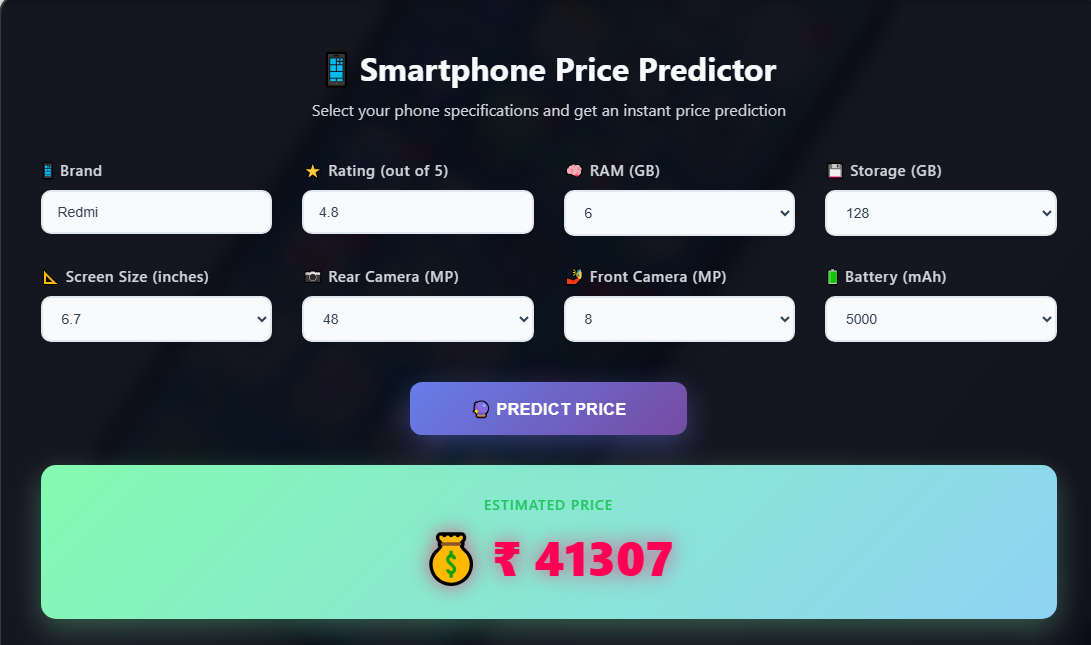
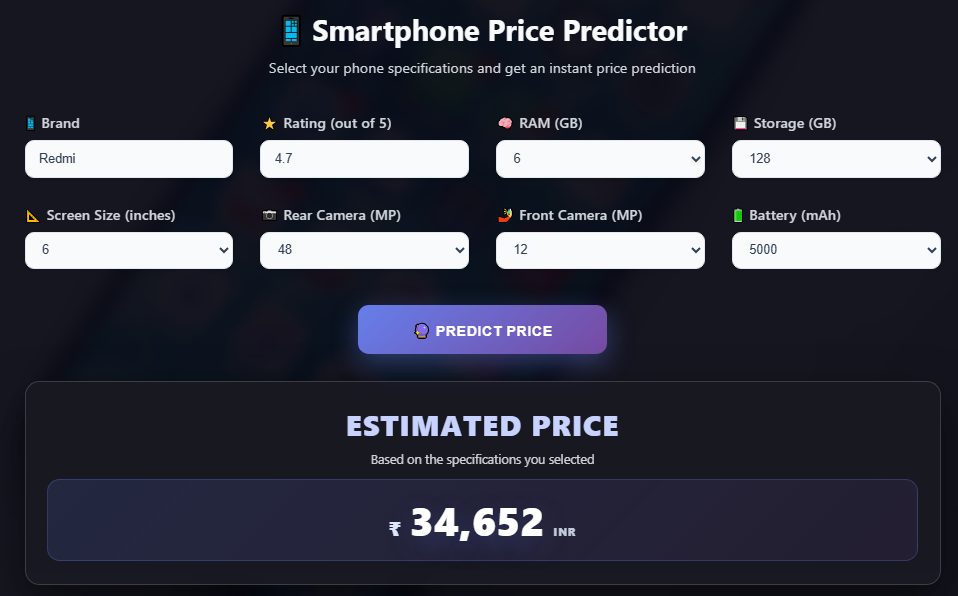
Updated result

diff --git a/frontend/src/App.css b/frontend/src/App.css
@@ -198,7 +198,7 @@ button:hover {
 }
 
 .predictor-result-title {
-  font-size: 13px;
+  /* font-size: 13px; */
   color: #c7d2fe;
   font-weight: 800;
   margin-bottom: 6px;

diff --git a/frontend/src/components/Predictor.jsx b/frontend/src/components/Predictor.jsx
@@ -325,7 +325,7 @@ function Predictor() {
         {price !== null && (
           <div className="predictor-result">
             <div className="predictor-result-top">
-              <p className="predictor-result-title">Estimated Price</p>
+              <h1 className="predictor-result-title">Estimated Price</h1>
               <p className="predictor-result-subtitle">Based on the specifications you selected</p>
             </div>
             <div className="predictor-result-value" aria-live="polite">